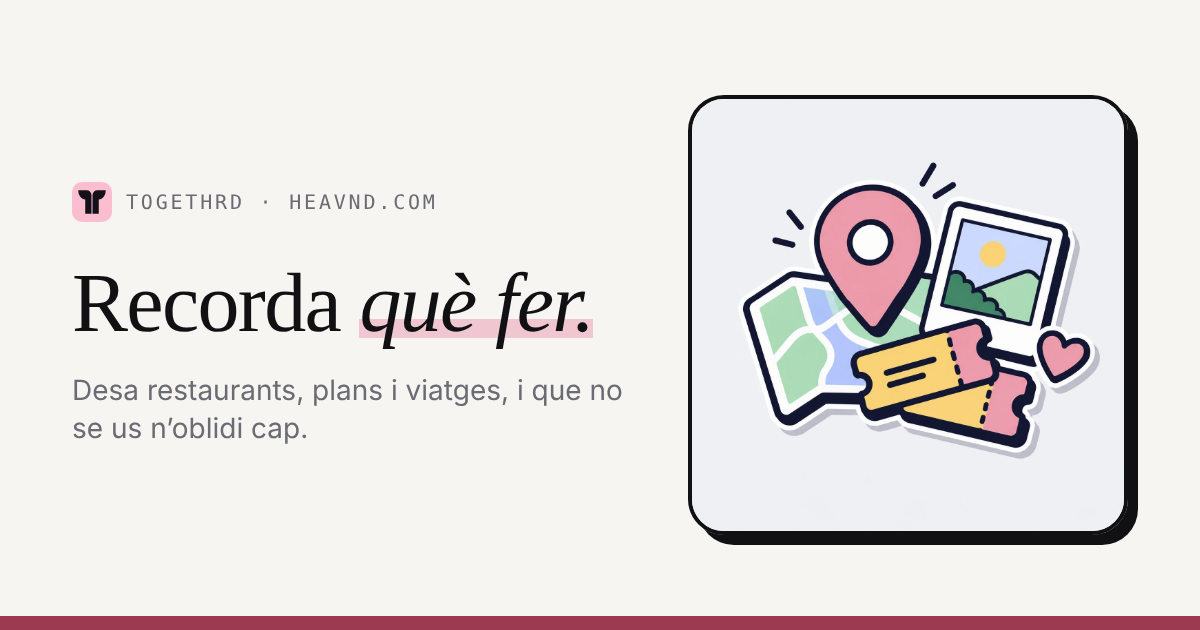
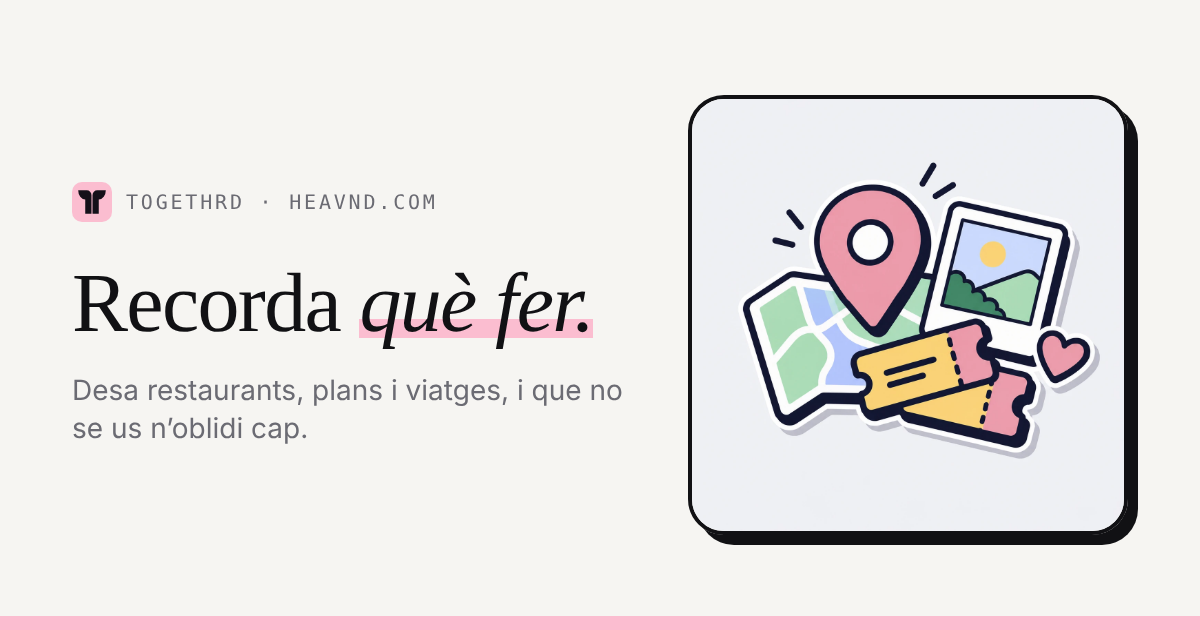
Paleta: colores de Choosd, Togethrd y Simplfd según sus iconos
Cada app pasa al pastel de su icono, con on-* en tinta y un *-strong
para texto, iconos y bordes, igual que en las apps. Tintes al 40 % en
claro. Las imágenes OG subrayan con el acento tal cual; regeneradas.

Claude-Session: https://claude.ai/code/session_01EgbpYp65RvD215YiMZGMHM

Changed region(s): [[0.0, 0.9651, 1.0, 1.0]]

diff --git a/frontend/app/assets/css/main.css b/frontend/app/assets/css/main.css
@@ -7,8 +7,8 @@
 
 /*
  * Tokens semánticos, los mismos que en las apps: nunca black/white directamente.
- * accent es el de la marca (el lila del icono); accent-strong, el mismo oscurecido para texto e iconos sobre papel; cada app conserva el suyo (choosd, meald, togethrd, simplfd), el mismo que usa
- * la app para actuar, con su on-* para lo que va encima y su versión clara en oscuro, como en cada app.
+ * accent es el de la marca (el lila del icono); accent-strong, el mismo oscurecido para texto e iconos sobre papel; cada app conserva el suyo (choosd, meald, togethrd, simplfd), el pastel de su icono, el mismo que usa
+ * la app para actuar, con su on-* (tinta) para lo que va encima y su *-strong para texto, iconos y bordes, como en cada app.
  * night/night-ink son el bloque invertido del manifiesto: no cambian con el tema.
  *
  * La landing añade dos familias al sistema de las apps: Fraunces para titulares (la voz editorial)
@@ -25,14 +25,17 @@
   --color-accent: #a988f9;
   --color-accent-strong: #8055d4;
   --color-on-accent: #111114;
-  --color-choosd: #3d4bdb;
-  --color-on-choosd: #ffffff;
+  --color-choosd: #93a9fc;
+  --color-choosd-strong: #5366c0;
+  --color-on-choosd: #1b1a2e;
   --color-meald: #c1e5bc;
   --color-meald-strong: #3f6b26;
-  --color-togethrd: #9b3a51;
-  --color-on-togethrd: #ffffff;
-  --color-simplfd: #0e5a57;
-  --color-on-simplfd: #fffdf8;
+  --color-togethrd: #fbbdd0;
+  --color-togethrd-strong: #9b3a51;
+  --color-on-togethrd: #1f1a1c;
+  --color-simplfd: #85cece;
+  --color-simplfd-strong: #17797a;
+  --color-on-simplfd: #14211f;
   --color-night: #111114;
   --color-night-ink: #ececef;
 }
@@ -45,11 +48,11 @@
   --color-night: #18181c;
   --color-accent-strong: #a988f9;
   --color-meald-strong: #c1e5bc;
-  --color-choosd: #6b78ff;
+  --color-choosd-strong: #93a9fc;
   --color-on-choosd: #0d0d18;
-  --color-togethrd: #e08ea2;
+  --color-togethrd-strong: #fbbdd0;
   --color-on-togethrd: #1a1214;
-  --color-simplfd: #6cc4b9;
+  --color-simplfd-strong: #85cece;
   --color-on-simplfd: #0b1f1d;
   color-scheme: dark;
 }

diff --git a/frontend/app/components/MockTogethrdPlan.vue b/frontend/app/components/MockTogethrdPlan.vue
@@ -2,12 +2,12 @@
   <!-- Miniatura decorativa de un plan de Sorpréndeme: paradas en orden, unidas por la ruta. -->
   <div class="card w-full p-4" aria-hidden="true">
     <div class="flex items-center justify-between gap-2">
-      <p class="text-sm font-semibold"><FontAwesomeIcon :icon="faWandMagicSparkles" class="mr-1 text-togethrd" /> {{ t('mock.togethrdPlan') }}</p>
-      <span class="rounded-full bg-togethrd/15 px-2 py-0.5 text-[11px] font-medium text-togethrd">{{ t('mock.togethrdPlanWhen') }}</span>
+      <p class="text-sm font-semibold"><FontAwesomeIcon :icon="faWandMagicSparkles" class="mr-1 text-togethrd-strong" /> {{ t('mock.togethrdPlan') }}</p>
+      <span class="rounded-full bg-togethrd/40 dark:bg-togethrd/15 px-2 py-0.5 text-[11px] font-medium text-togethrd-strong">{{ t('mock.togethrdPlanWhen') }}</span>
     </div>
     <ol class="mt-3">
       <li v-for="(stop, i) in stops" :key="stop.key" class="relative flex gap-3 pb-3 last:pb-0">
-        <span v-if="i < stops.length - 1" class="absolute top-5 bottom-0 left-[9px] border-l-2 border-dotted border-togethrd" />
+        <span v-if="i < stops.length - 1" class="absolute top-5 bottom-0 left-[9px] border-l-2 border-dotted border-togethrd-strong" />
         <span class="z-10 grid size-5 shrink-0 place-items-center rounded-full bg-togethrd text-[10px] font-bold text-on-togethrd">{{ i + 1 }}</span>
         <span class="min-w-0 flex-1">
           <span class="block text-[10px] text-muted">{{ t(`mock.togethrdStops.${stop.key}.kind`) }}</span>
@@ -18,7 +18,7 @@
     </ol>
     <div class="mt-3 flex items-center justify-between border-t border-ink/10 pt-2.5 text-[11px]">
       <span class="text-muted">{{ t('mock.togethrdPlanBudget', { price: money(32) }) }}</span>
-      <span class="font-semibold text-togethrd"><FontAwesomeIcon :icon="faRoute" /> {{ t('mock.togethrdRoute') }}</span>
+      <span class="font-semibold text-togethrd-strong"><FontAwesomeIcon :icon="faRoute" /> {{ t('mock.togethrdRoute') }}</span>
     </div>
   </div>
 </template>

diff --git a/frontend/app/utils/apps.ts b/frontend/app/utils/apps.ts
@@ -39,7 +39,7 @@ export const APPS: HeavndApp[] = [
     id: 'choosd',
     name: 'Choosd',
     url: 'https://choosd.heavnd.com',
-    accent: { bg: 'bg-choosd', text: 'text-choosd', tint: 'bg-choosd/15', border: 'border-choosd' },
+    accent: { bg: 'bg-choosd-strong', text: 'text-choosd-strong', tint: 'bg-choosd/40 dark:bg-choosd/15', border: 'border-choosd-strong' },
     glyph: 'M25.75 14.3A9.9 9.9 0 1 0 15.3 25.88V14.3ZM15.8 25.9V23.5C15.8 20.6 18.1 18.3 21.5 18.3H25.63A9.9 9.9 0 0 1 15.8 25.9Z',
     icon: { bg: '#93a9fc', fill: 'text-[#141019]' },
     steps: ['save', 'organize', 'tournament', 'budget'],
@@ -86,7 +86,7 @@ export const APPS: HeavndApp[] = [
     id: 'togethrd',
     name: 'Togethrd',
     url: 'https://togethrd.heavnd.com',
-    accent: { bg: 'bg-togethrd', text: 'text-togethrd', tint: 'bg-togethrd/15', border: 'border-togethrd' },
+    accent: { bg: 'bg-togethrd-strong', text: 'text-togethrd-strong', tint: 'bg-togethrd/40 dark:bg-togethrd/15', border: 'border-togethrd-strong' },
     glyph: 'M4.95 6.65H11.82A3.76 4 0 0 1 15.58 10.65V25.35H10.59V14.05A5.64 7.4 0 0 1 4.95 6.65ZM27.05 6.65H20.18A3.76 4 0 0 0 16.42 10.65V25.35H21.41V14.05A5.64 7.4 0 0 0 27.05 6.65Z',
     icon: { bg: '#fbbdd0', fill: 'text-[#141019]' },
     steps: ['save', 'types', 'plan', 'done'],
@@ -110,7 +110,7 @@ export const APPS: HeavndApp[] = [
     id: 'simplfd',
     name: 'Simplfd',
     url: 'https://simplfd.heavnd.com',
-    accent: { bg: 'bg-simplfd', text: 'text-simplfd', tint: 'bg-simplfd/15', border: 'border-simplfd' },
+    accent: { bg: 'bg-simplfd-strong', text: 'text-simplfd-strong', tint: 'bg-simplfd/40 dark:bg-simplfd/15', border: 'border-simplfd-strong' },
     glyph: 'M13.6 6.2H26C26 11.5 23.5 15.17 18.5 15.17H15.82V16.55L13.6 16.4A5.1 5.1 0 0 1 8.5 11.3A5.1 5.1 0 0 1 13.6 6.2ZM6.27 16.95H16.18V15.55H18.8A5.15 5.15 0 0 1 18.8 25.85H6.27Z',
     icon: { bg: '#85cece', fill: 'text-[#141019]' },
     steps: ['section', 'add', 'split', 'settle'],

diff --git a/frontend/app/components/MockTogethrd.vue b/frontend/app/components/MockTogethrd.vue
@@ -3,7 +3,7 @@
   <div class="card w-full p-4" aria-hidden="true">
     <div class="flex items-center gap-2">
       <AppIcon :glyph="APPS[2]!.glyph" :fill-class="APPS[2]!.icon.fill" :bg="APPS[2]!.icon.bg" size-class="size-6" />
-      <p class="text-base font-semibold leading-tight">{{ t('mock.togethrdGreeting') }} <span class="text-togethrd">{{ t('mock.togethrdGreetingWhen') }}</span>?</p>
+      <p class="text-base font-semibold leading-tight">{{ t('mock.togethrdGreeting') }} <span class="text-togethrd-strong">{{ t('mock.togethrdGreetingWhen') }}</span>?</p>
     </div>
     <div class="mt-3 rounded-xl bg-ink/[0.03] p-2.5">
       <p class="text-[10px] font-medium text-muted">{{ t('mock.togethrdNext') }} · {{ t('mock.togethrdNextWhen') }}</p>
@@ -13,7 +13,7 @@
     <div class="mt-3 rounded-xl bg-togethrd p-2.5 text-on-togethrd">
       <p class="text-[11px] font-semibold">{{ t('mock.togethrdFriends') }}</p>
       <div class="mt-2 flex items-center gap-2.5 rounded-lg bg-surface p-2 text-ink">
-        <span class="grid size-10 shrink-0 place-items-center rounded-md bg-togethrd/15"><FontAwesomeIcon :icon="faWineGlass" class="text-togethrd" /></span>
+        <span class="grid size-10 shrink-0 place-items-center rounded-md bg-togethrd/40 dark:bg-togethrd/15"><FontAwesomeIcon :icon="faWineGlass" class="text-togethrd-strong" /></span>
         <span class="min-w-0 flex-1">
           <span class="block truncate text-xs font-semibold">{{ t('mock.togethrdExperience') }}</span>
           <span class="block truncate text-[10px] text-muted">{{ t('mock.togethrdExperienceMeta') }}</span>

diff --git a/frontend/app/components/MockChoosd.vue b/frontend/app/components/MockChoosd.vue
@@ -9,8 +9,8 @@
       <span class="rounded-full bg-ink/5 px-2 py-0.5 text-[11px] font-medium text-muted">{{ t('mock.choosdRound') }}</span>
     </div>
     <div class="mt-4 grid grid-cols-2 gap-3">
-      <div v-for="option in options" :key="option.name" class="rounded-xl border p-2.5" :class="option.chosen ? 'border-choosd ring-2 ring-choosd/40' : 'border-ink/10'">
-        <div class="grid aspect-[4/3] place-items-center rounded-lg" :class="option.chosen ? 'bg-choosd/20' : 'bg-ink/5'">
+      <div v-for="option in options" :key="option.name" class="rounded-xl border p-2.5" :class="option.chosen ? 'border-choosd-strong ring-2 ring-choosd/40' : 'border-ink/10'">
+        <div class="grid aspect-[4/3] place-items-center rounded-lg" :class="option.chosen ? 'bg-choosd/50 dark:bg-choosd/20' : 'bg-ink/5'">
           <FontAwesomeIcon :icon="faChair" class="text-3xl text-ink/50" />
         </div>
         <div class="mt-2 truncate text-xs font-medium">{{ option.name }}</div>

diff --git a/frontend/app/components/MockRoute.vue b/frontend/app/components/MockRoute.vue
@@ -2,7 +2,7 @@
   <!-- La firma de Togethrd: paradas numeradas unidas por una línea de puntos. -->
   <span class="inline-flex items-center" aria-hidden="true">
     <template v-for="n in count" :key="n">
-      <span v-if="n > 1" class="w-3 border-t-2 border-dotted" :class="inverse ? 'border-on-togethrd' : 'border-togethrd'" />
+      <span v-if="n > 1" class="w-3 border-t-2 border-dotted" :class="inverse ? 'border-on-togethrd' : 'border-togethrd-strong'" />
       <span
         class="grid size-4 shrink-0 place-items-center rounded-full text-[9px] font-bold"
         :class="inverse ? 'bg-on-togethrd text-togethrd' : 'bg-togethrd text-on-togethrd'"

diff --git a/frontend/app/pages/index.vue b/frontend/app/pages/index.vue
@@ -5,7 +5,7 @@
       <div class="pointer-events-none absolute inset-0 -z-10" aria-hidden="true">
         <div class="absolute -top-48 right-[-12%] size-[44rem] rounded-full bg-accent/25 blur-3xl dark:bg-accent/10" />
         <div class="absolute right-[30%] top-[40%] size-[20rem] rounded-full bg-meald/40 blur-3xl dark:bg-meald/10" />
-        <div class="absolute -left-40 top-[55%] size-[26rem] rounded-full bg-choosd/10 blur-3xl dark:bg-choosd/5" />
+        <div class="absolute -left-40 top-[55%] size-[26rem] rounded-full bg-choosd/30 blur-3xl dark:bg-choosd/10" />
       </div>
 
       <div class="mx-auto max-w-6xl px-4 sm:px-6">

diff --git a/frontend/app/components/MockSimplfdSplit.vue b/frontend/app/components/MockSimplfdSplit.vue
@@ -11,7 +11,7 @@
       <li v-for="p in people" :key="p.name" class="flex items-center gap-3 py-2">
         <span class="flex-1 font-medium">{{ p.name }}</span>
         <span class="text-muted">{{ p.balance > 0 ? t('mock.simplfdOwed') : t('mock.simplfdOwes') }}</span>
-        <span class="w-16 text-right font-semibold" :class="p.balance > 0 ? 'text-simplfd' : ''">{{ money(Math.abs(p.balance)) }}</span>
+        <span class="w-16 text-right font-semibold" :class="p.balance > 0 ? 'text-simplfd-strong' : ''">{{ money(Math.abs(p.balance)) }}</span>
       </li>
     </ul>
     <p class="meta mt-2">{{ t('mock.simplfdSettle') }}</p>

diff --git a/frontend/app/components/MockChoosdSave.vue b/frontend/app/components/MockChoosdSave.vue
@@ -8,7 +8,7 @@
     </div>
     <p class="meta mt-3 text-[10px]">{{ t('mock.saveRead') }}</p>
     <div class="mt-2 flex gap-3">
-      <div class="grid size-16 shrink-0 place-items-center rounded-lg bg-choosd/20">
+      <div class="grid size-16 shrink-0 place-items-center rounded-lg bg-choosd/50 dark:bg-choosd/20">
         <FontAwesomeIcon :icon="faChair" class="text-2xl text-ink/50" />
       </div>
       <div class="min-w-0 flex-1">
